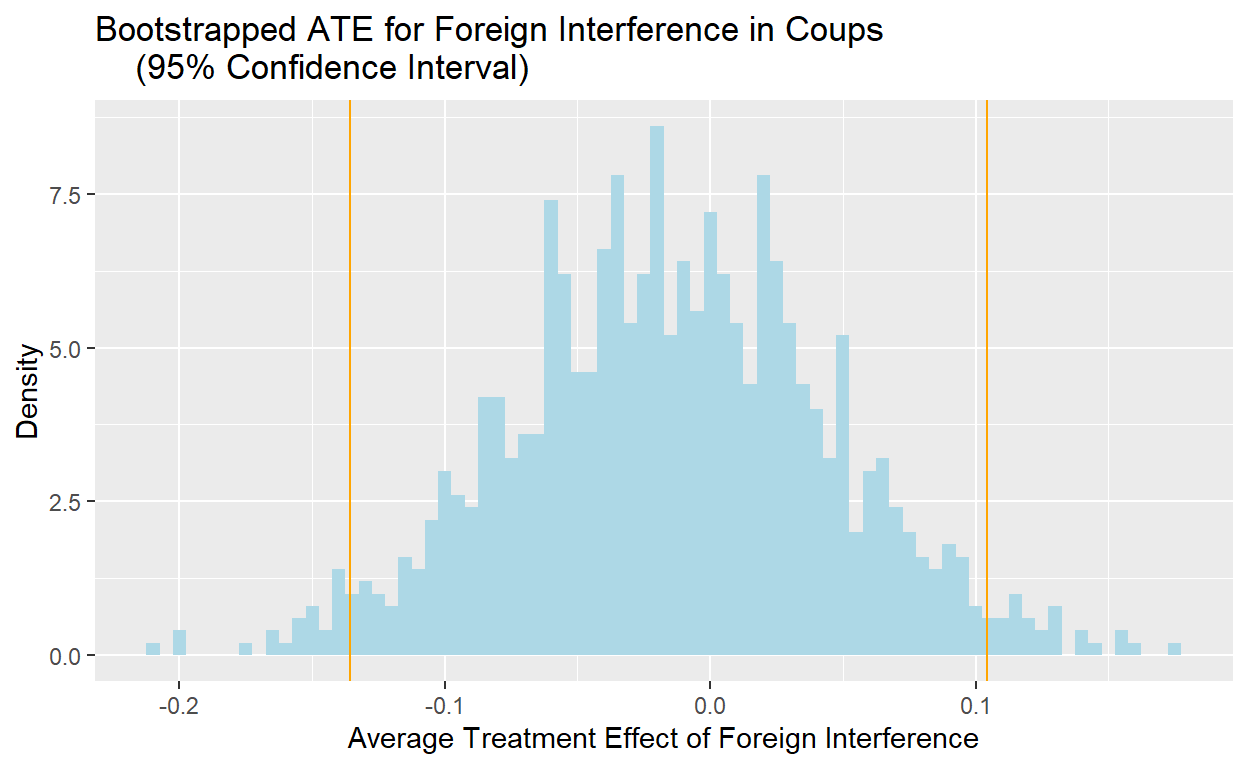
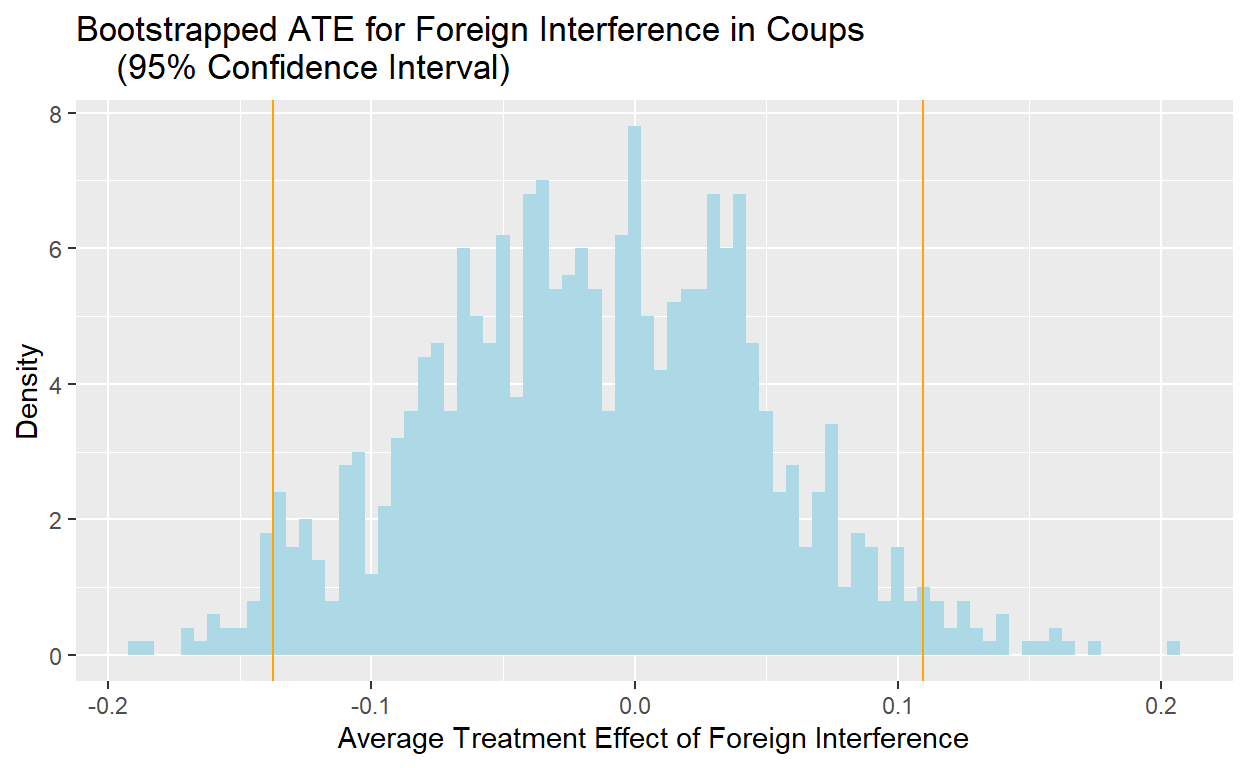
Commit

diff --git a/index.html b/index.html
@@ -1673,8 +1673,8 @@ code span.wa { color: #5e5e5e; font-style: italic; } /* Warning */
 </thead>
 <tbody>
 <tr class="odd">
-<td style="text-align: right;">-0.1356009</td>
-<td style="text-align: right;">0.104484</td>
+<td style="text-align: right;">-0.1373994</td>
+<td style="text-align: right;">0.1097521</td>
 </tr>
 </tbody>
 </table>
@@ -2110,12 +2110,12 @@ R2 Adj.
 </div>
 <p>In the multiple regression, I included all of the other types of coups included in the Cline data set. These coup variables are Military, Rebel, Dissident, Palace, Auto (coup conducted by existing head of state), Resignation of Head of State, Popular Uprising Coup, Counter Coup, and All Other Types of Coups. In this regression, the value of the intercept is 0.455; controlling for all the other coup types, the success rate is 45.5%. Once all of these other types of coups are controlled for, the value of the coefficient ‘foreign’ is 0.079. In the context of this regression, it means that on average, foreign backed coups appear to have a success rate that is 7.9 percentage points higher then the Intercept. Thus, the multiple regression model predicts that foreign backed coups have a success rate of 53.4%.</p>
 <p>At first glance, this regression appears to have a finding that is different to both the previous regression and the bootstrapping. Unlike those analyses, the multiple regression model predicts that foreign backing actually increases the success rate of coups, once confounding variables are accounted for. Such a finding would support my hypothesis that having foreign support increases the likelihood of a coup being successful.</p>
-<p>However, looking closer at the data, we can see that the p value for the coefficient ‘foreign’ is 0.116. This means that although the multiple regression predicts that foreign backing increases the success rate of coups, such a finding is not statistically significant at a 95% confidence interval, which is the standard confidence interval size. This is because the p value of 0.116 is greater than the alpha value of 0.05; in order for the result to be statistically significant, the p value must be smaller than the alpha value. Thus, the results of this regression model are not statistically significant, and cannot be used to definitively prove our hypothesis that foreign backing increases the likelihood of coups being successful. That being said, although this multiple regression cannot prove that foreign involvement increases the likelihood of a coup being successful, it does not show that foreign involvement decreases the likelihood of a coup being unsuccessful either.</p>
+<p>However, looking closer at the data, we can see that the p value for the coefficient ‘foreign’ is 0.116. This means that although the multiple regression predicts that foreign backing increases the success rate of coups, such a finding is not statistically significant at a 95% confidence interval, which is the standard confidence interval size. This is because the p value of 0.116 is greater than the alpha value of 0.05; in order for the result to be statistically significant, the p value must be smaller than the alpha value. Thus, the results of this regression model are not statistically significant, and cannot be used to definitively prove our hypothesis that foreign backing increases the likelihood of coups being successful. That being said, although this multiple regression cannot prove that foreign involvement increases the likelihood of a coup being successful, it does not show that foreign involvement decreases the likelihood of a coup being unsuccessful either. Therefore, the coefficient ‘foreign’ most likely does not represent a causal effect.</p>
 <h2 id="conclusion">Conclusion</h2>
 <p>Based on our findings from both the bootstrapping and main variable regression models, there is no substantial evidence to show that foreign backing in a coup attempt increases the likelihood of that coup succeeding. For the bootstrapping and regression models, we failed to reject the null hypothesis on a 95% confidence interval, meaning that we cannot establish a relationship between foreign backing and success rate of coups. The ATE, though it shows that there is a slightly lower success rate for foreign backed coups, is so small that it demonstrates how weak the relationship is between foreign backing and coup success rate. Even with this weak relationship, the ATE still goes against my hypothesis that foreign backing increases the success rate of coups. Thus, based on the ATE, bootstrapping, and regression model, there is no support for my hypothesis. The multiple regression only confirms this lack of support. Even though it found that the coefficient ‘foreign’ had a value of 0.079, which would support my hypothesis of increased success from foreign backing, its p value is 0.116, greater than the alpha value of 0.05 for a 95% confidence interval. Therefore, this finding is not statistically significant, and even in the multiple regression model, the null hypothesis that foreign backing has no impact on the success rate of coups cannot be rejected. This confirms the result of the bootstrapping model.</p>
-<p>Based on my study, I have come to the conclusion that there is no evidence that foreign interference has a relationship with the success rate of coups. All the tests I ran in the study failed to reject the null hypothesis, meaning that foreign interference is found to neither increase or decrease the success rate of coups. Thus, based on the results of this study, we must accept the null hypothesis that foreign backing has no relationship with the likelihood of coup success. There are potential limitations that my study has not yet covered though. One of the limitations of the Cline data set is that it categorizes all foreign coup involvement under a single category. It does not specify the type of foreign backing, which could come in all forms, such as direct military intervention, distributing weapons, financial aid, and sanctions against the existing government. All of these actions would count as foreign intervention, but some of these variables may have a larger impact on coup outcome than others. If I had more time to conduct this study, I would take all the coups in the data set and assign variables that detail what type of foreign interference was involved, if any. These could include ‘foreign_military’, ‘weapons’, and ‘sanction’ among many others. By adding these variables, we can see which type of foreign intervention affects the success rate of coups, if at all, eliminating potential confounding.</p>
+<p>Based on my study, I have come to the conclusion that there is no evidence that foreign interference has a relationship with the success rate of coups. All the tests I ran in the study failed to reject the null hypothesis, meaning that foreign interference is found to neither increase or decrease the success rate of coups. Thus, based on the results of this study, we must accept the null hypothesis that foreign backing has no relationship with the likelihood of coup success. There are potential limitations that my study has not yet covered though. One of the limitations of the Cline data set is that it categorizes all foreign coup involvement under a single category. It does not specify the type of foreign backing, which could come in all forms, such as direct military intervention, distributing weapons, financial aid, and sanctions against the existing government. All of these actions would count as foreign intervention, but some of these variables may have a larger impact on coup outcome than others. If I had more time to conduct this study, I would take all the coups in the data set and assign variables that detail what type of foreign interference was involved, if any. These could include ‘foreign_military’, ‘weapons’, and ‘sanction’ among many others. By adding these variables, we can see which type of foreign intervention affects the success rate of coups, if at all.</p>
 <h2 id="additional-analysis">Additional Analysis</h2>
-<p>Additionally, this data set did not specify which countries were behind the interference in each instance of foreign backing. Another potential continuation of this study could be determining what countries are backing coups around the world, as well as how successful the coups that they back are. In this case, I would assign the coup-backing nation(s) to every instance of foreign backed coup in the data set. I would also merge another data set that shows the GDPs of the coup backers during the time of the coup. This would provide information about the influence of the coup-backer, and allow us to expand the study to see if the power of a coup backer impacts coup success rate. This will give a clearer picture of the different types of coup labelled under ‘foreign’ as well.</p>
+<p>Additionally, this data set did not specify which countries were behind the interference in each instance of foreign backing. As a result, a potential confounder is the power of the countries backing coups around the world. The power of the country could impact their ability to support a coup in the first place, and the resources that they have at their disposal can impact a coup outcome. I would assign the coup-backing nation(s) to every instance of a foreign backed coup in the data set. I would also merge another data set that shows the GDPs of the coup backers (as a measure of power and influence) during the time of the coup. This would provide information about the influence of the coup-backer, and allow us to see if the power of a coup backer impacts coup success rate.</p>
 <h2 id="source">Source</h2>
 <p>Peyton, Buddy, Joseph Bajjalieh, Dan Shalmon, Michael Martin, Jonathan Bonaguro, and Emilio Soto. 2023. Cline Center Coup d’État Project Dataset. Cline Center for Advanced Social Research. V.2.1.2. February 23. University of Illinois Urbana-Champaign. doi: 10.13012/B2IDB-9651987_V6</p>
 <div class="sourceCode" id="cb1"><pre class="sourceCode r distill-force-highlighting-css"><code class="sourceCode r"></code></pre></div>
